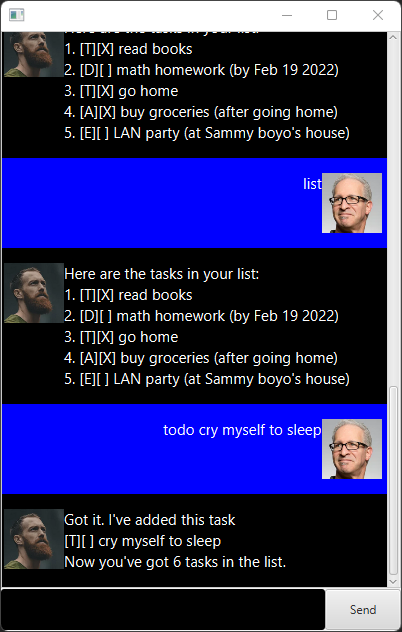
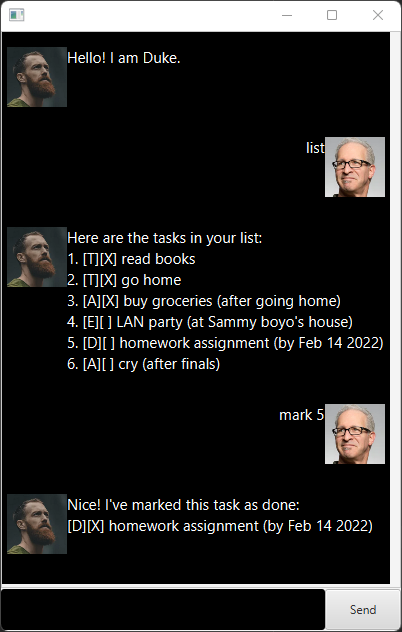
Update UI.png

diff --git a/src/main/java/duke/gui/DialogBox.java b/src/main/java/duke/gui/DialogBox.java
@@ -44,6 +44,7 @@ public class DialogBox extends HBox {
         dialog.setText(text);
         displayPicture.setImage(img);
         this.setMinHeight(Region.USE_PREF_SIZE);
+        this.setStyle("-fx-background-color:black;");
     }
 
     /**
@@ -64,9 +65,7 @@ public class DialogBox extends HBox {
      * @return a new dialog box based on user message.
      */
     public static DialogBox getUserDialog(String text, Image img) {
-        var db = new DialogBox(text, img);
-        db.setStyle("-fx-background-color:blue;");
-        return db;
+        return new DialogBox(text, img);
     }
 
     /**
@@ -82,8 +81,6 @@ public class DialogBox extends HBox {
         String[] splitStr = text.split(" ", 2);
         if (splitStr[0].equals("ERROR:")) {
             db.setStyle("-fx-background-color:red;");
-        } else {
-            db.setStyle("-fx-background-color:black;");
         }
         return db;
     }
